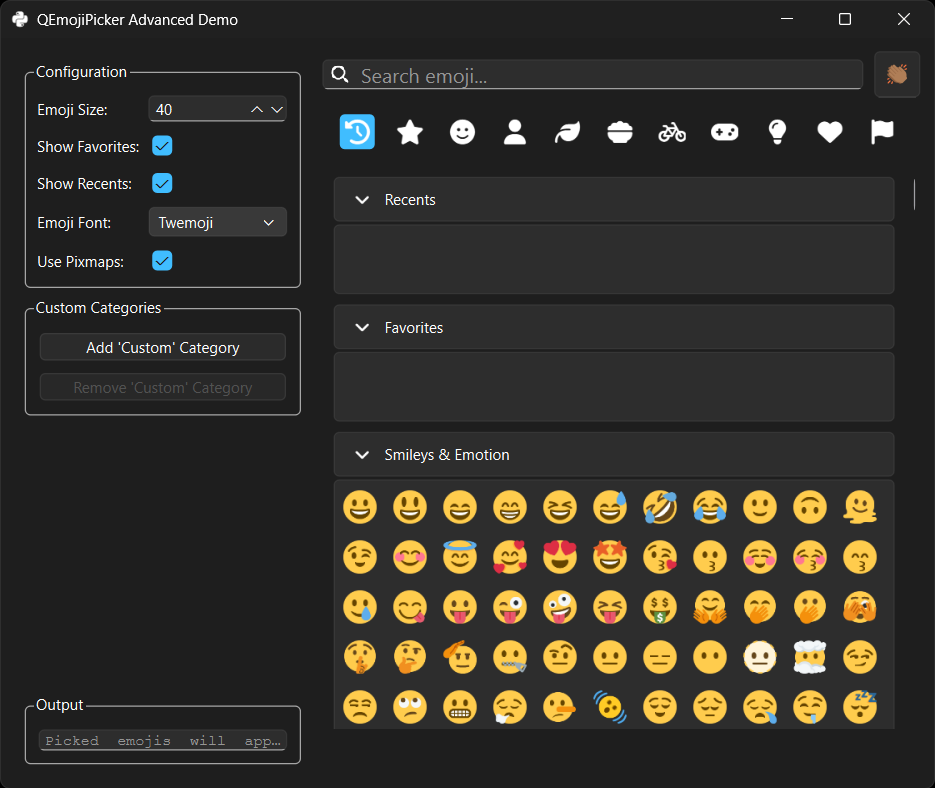
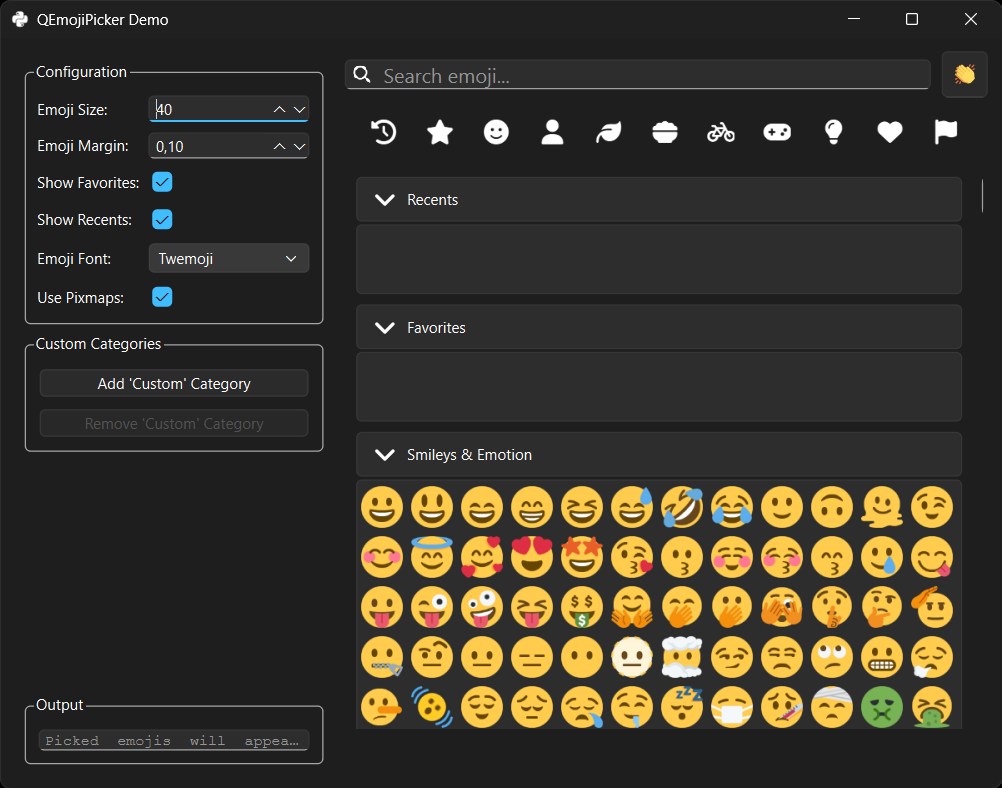
update: simplify window title in emoji picker demo update: QEmojiPicker.png

diff --git a/demos/emoji_picker.py b/demos/emoji_picker.py
@@ -17,7 +17,7 @@ class MainWindow(QMainWindow):
     def __init__(self) -> None:
         super().__init__()
 
-        self.setWindowTitle("QEmojiPicker Advanced Demo")
+        self.setWindowTitle("QEmojiPicker Demo")
         self.resize(800, 600)
         self.setWindowIcon(QThemeResponsiveIcon.fromAwesome("fa6b.python"))
 
